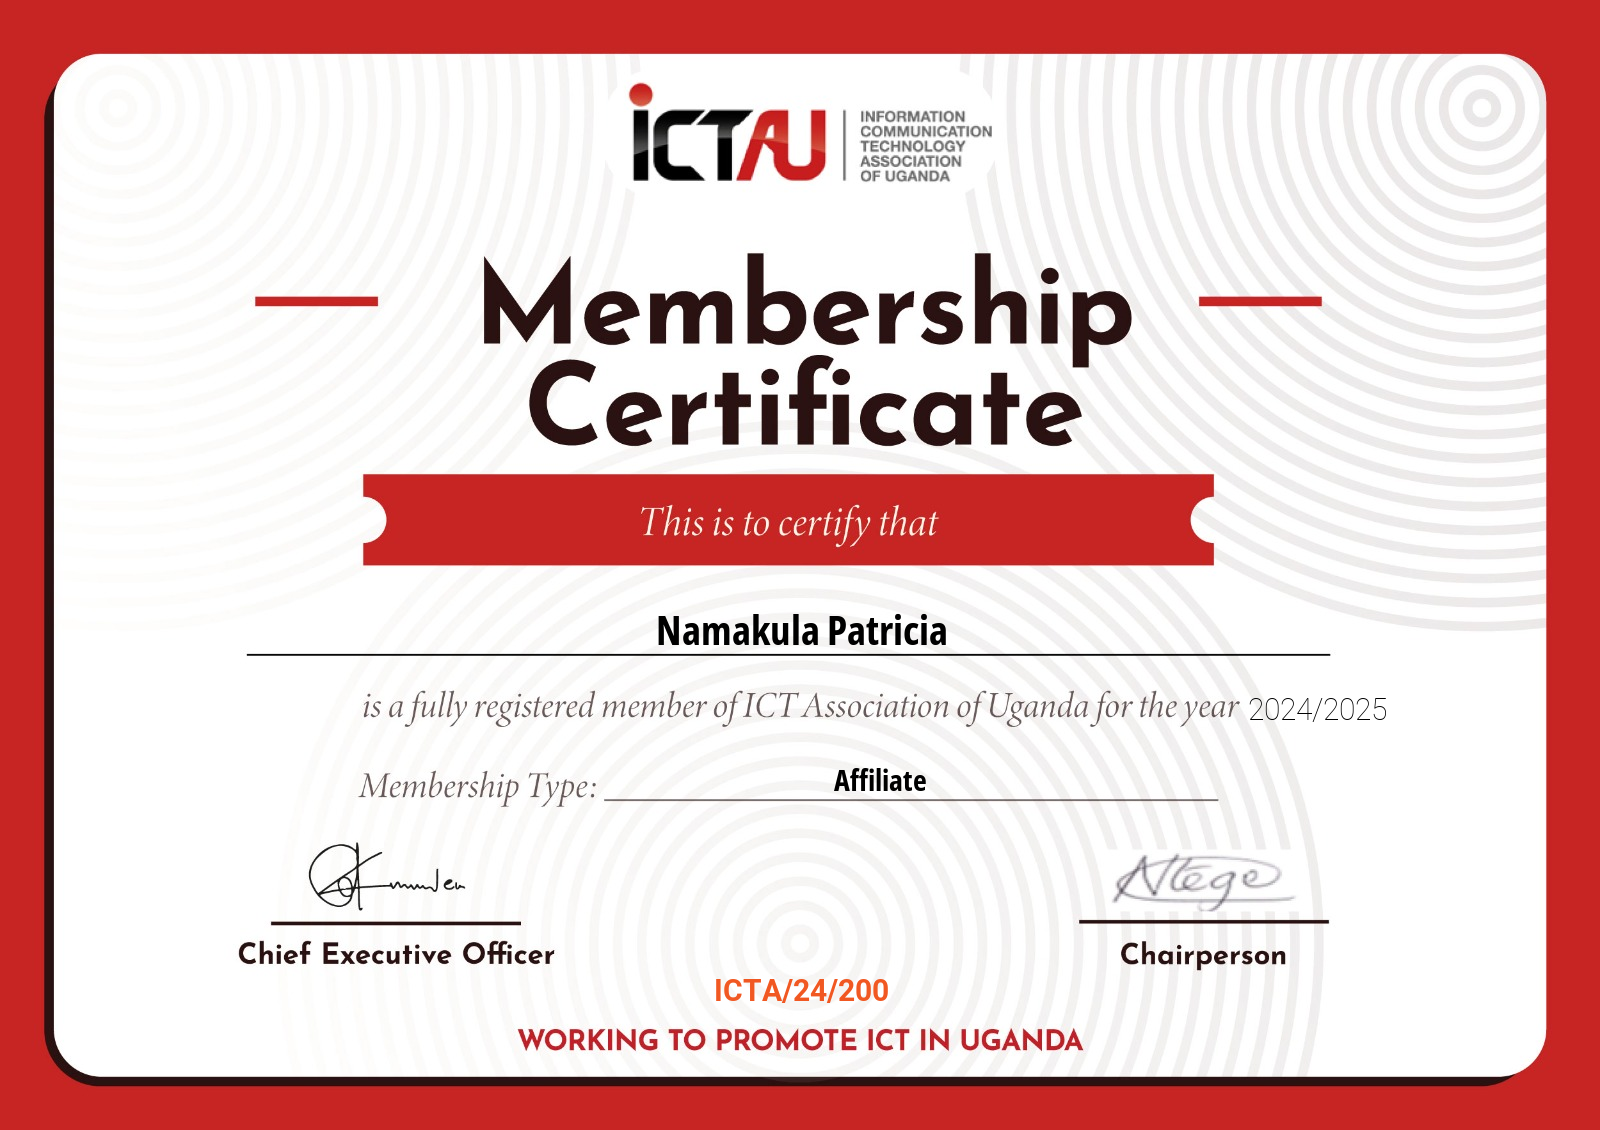
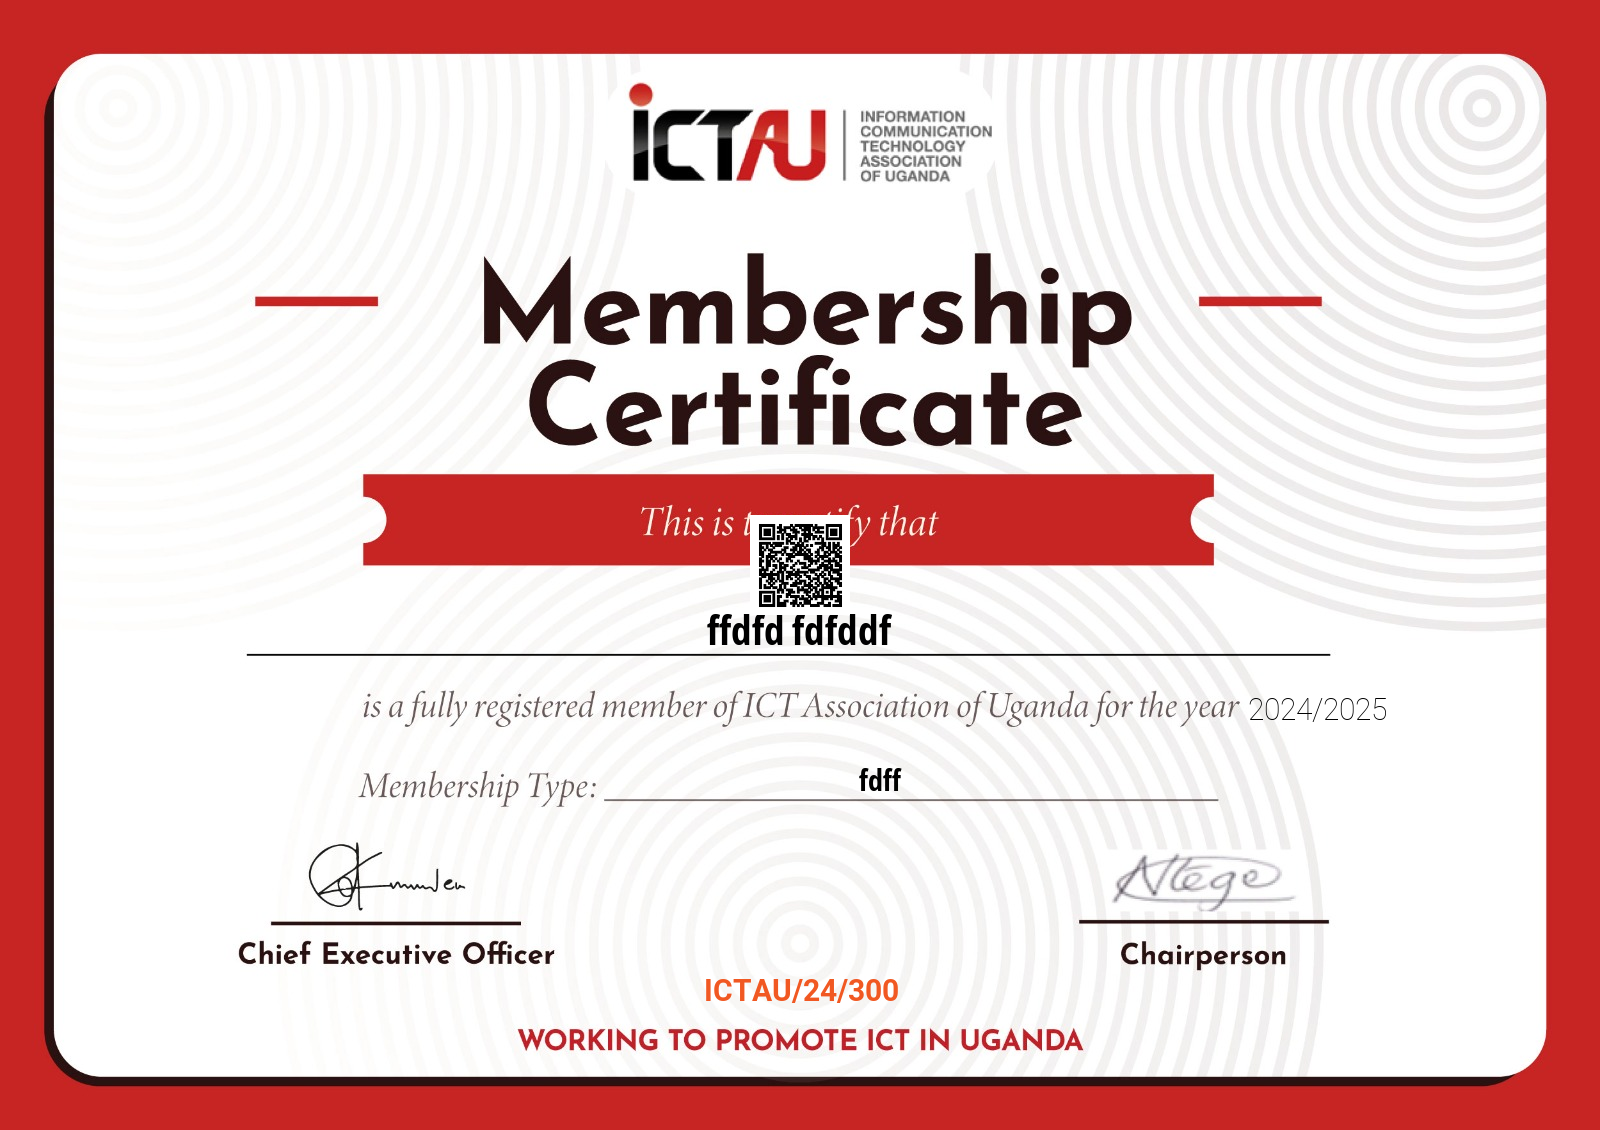
qr code

Changed region(s): [[0.4062, 0.4336, 0.5938, 0.5885], [0.4375, 0.8673, 0.5625, 0.8982], [0.5, 0.6814, 0.5938, 0.7124]]

diff --git a/app/Http/Controllers/MemberController.php b/app/Http/Controllers/MemberController.php
@@ -193,21 +193,51 @@ class MemberController extends Controller
             $font->lineHeight(1.6);
         });
 
+        $image->place(public_path('images/qr_code.png'), 'center', 0, 0, 100);
+
         $image->toPng();
 
         //save the image to the public folder
         $image->save(public_path('images/certificate-generated.png'));
 
-        // $img = file_get_contents(public_path('images/certificate-generated.png'));
+        $img = file_get_contents(public_path('images/certificate-generated.png'));
 
-        // return response($img)->header('Content-Type', 'image/png');
-        return response()->download(public_path('images/certificate-generated.png'))->deleteFileAfterSend(true);
+        return response($img)->header('Content-Type', 'image/png');
+        // return response()->download(public_path('images/certificate-generated.png'))->deleteFileAfterSend(true);
     }
+
+    // public function generate_qr()
+    // {
+    //     $url = "https://image.intervention.io/v3/basics/image-output#encode-images-with-encoder-objects";
+
+    //     $imagick = new ImagickImageBackEnd('white');
+    //     // Create renderer for PNG image output
+    //     $renderer = new ImageRenderer(
+    //         new RendererStyle(400),
+    //         $imagick
+    //     );
+
+    //     // Create writer to generate QR code
+    //     $writer = new Writer($renderer);
+
+    //     // Generate the QR code as a PNG image
+    //     $qrCode = $writer->writeString($url);
+
+    //     //change the color of the QR code to white
+
+    //     // Save the QR code to a file
+    //     file_put_contents(public_path('images/qr_code.png'), $qrCode);
+    //     $img = file_get_contents(public_path('images/qr_code.png'));
+    //     return response($img)->header('Content-Type', 'image/png');
+    //     // Prompt the user to save the image
+    //     // header('Content-Disposition: attachment; filename="qr_code.png"');
+    //     // header('Content-Type: image/png');
+    //     // echo $qrCode;
+    // }
 
     public function generate_qr()
     {
         $url = "https://image.intervention.io/v3/basics/image-output#encode-images-with-encoder-objects";
-
 
         // Create renderer for PNG image output
         $renderer = new ImageRenderer(
@@ -221,10 +251,25 @@ class MemberController extends Controller
         // Generate the QR code as a PNG image
         $qrCode = $writer->writeString($url);
 
-        // Prompt the user to save the image
-        header('Content-Disposition: attachment; filename="qr_code.png"');
-        header('Content-Type: image/png');
-        echo $qrCode;
+        // Create Imagick object
+        $imagick = new \Imagick();
+        $imagick->readImageBlob($qrCode);
+
+        // Set the color to white
+        $imagick->setColorspace(\Imagick::COLORSPACE_GRAY);
+        $imagick->negateImage(false);
+        $imagick->setImageColorspace(\Imagick::COLORSPACE_RGB);
+        $imagick->setImageAlphaChannel(\Imagick::ALPHACHANNEL_REMOVE);
+        $imagick->setImageBackgroundColor('white');
+
+        // Save the QR code to a file
+        $imagick->writeImage(public_path('images/qr_code.png'));
+        $imagick->clear();
+
+        // Output the image
+        return response()->file(public_path('images/qr_code.png'));
     }
+
+
 }
 

diff --git a/resources/views/admin/members/index.blade.php b/resources/views/admin/members/index.blade.php
@@ -48,6 +48,7 @@
                                                 <button type="submit" class="btn btn-danger" title="Delete member" onclick="return confirm(&quot;Confirm delete?&quot;)"><i class="fa fa-trash-o" aria-hidden="true"></i> Delete</button>
                                             </form>
                                             <a href={{"/get-certificate?id=".$item->id}} class="btn btn-primary">Certificate</a>
+                                            <a href="/generate-qr-code">qr</a>
                                         </td>
                                     </tr>
                                 @endforeach
